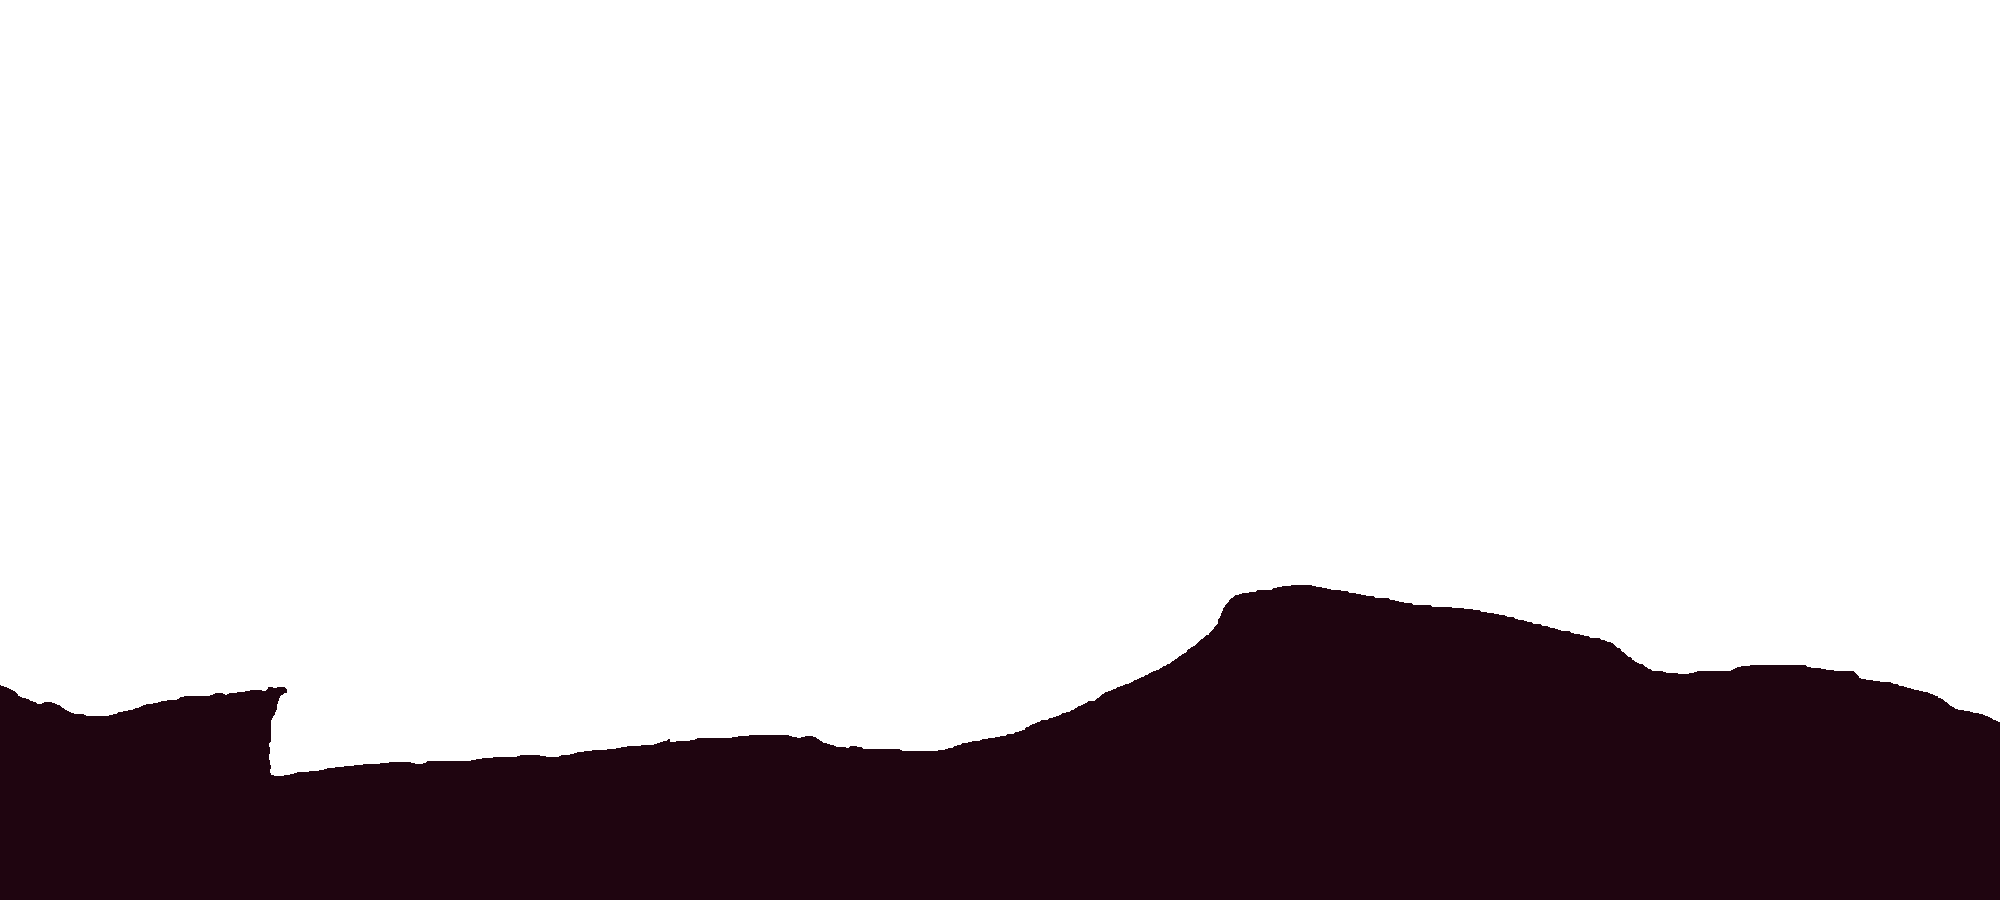
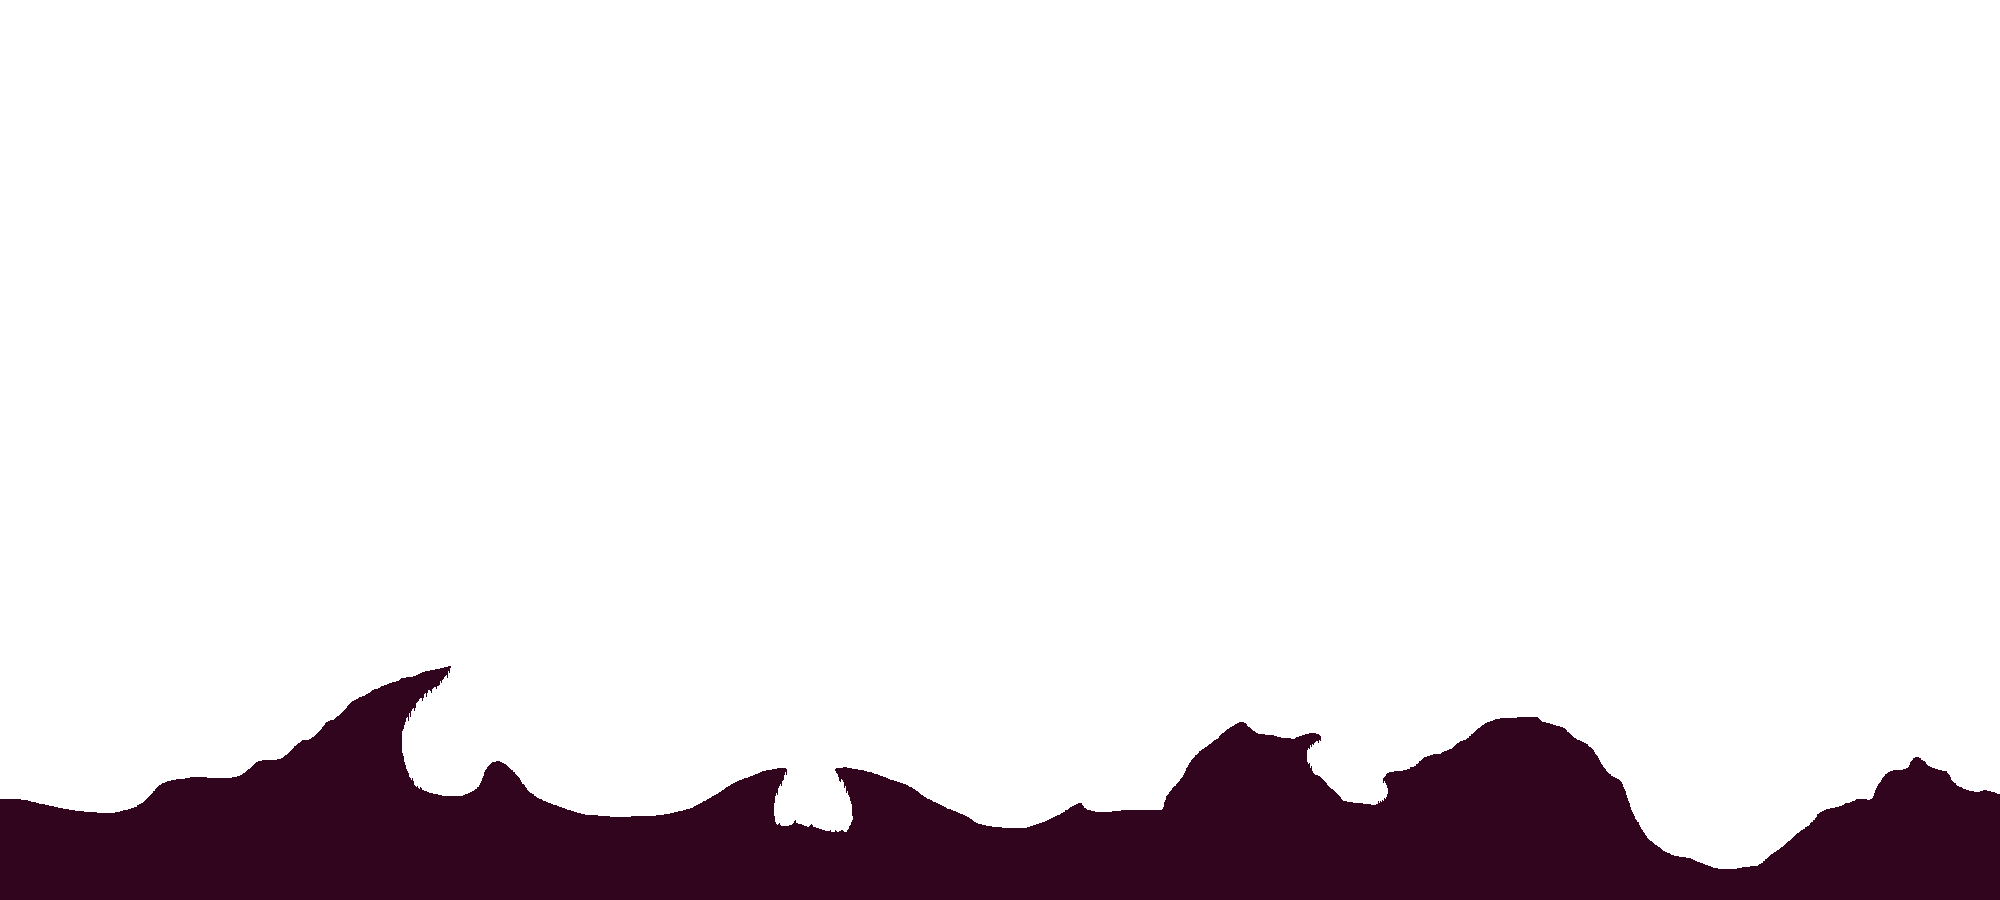
Ajout de parallax, reste à clusteriser tout ce petit monde

Changed region(s): [[0.0, 0.6533, 1.0, 0.9644]]

diff --git a/src/game_objects/world.py b/src/game_objects/world.py
@@ -1,11 +1,13 @@
 import pygame
 from json import load as json_load
+from math import ceil, floor
 
 from src.engine.library import is_surface_empty
+from src.engine.data import SCREEN_SIZE
 
 
 class World:
-    def __init__(self, level_folder_name="isles"):
+    def __init__(self, level_folder_name):
         file = open(f"../assets/world/{level_folder_name}/world_data.json", "r")
         level_dictionary = json_load(file)
         file.close()
@@ -13,17 +15,16 @@ class World:
         self.level_name = level_dictionary["level_name"]
         self.level_size = level_dictionary["level_size"]
         self.level_bg_color = level_dictionary["bg_color"]
+        self.cluster_size = level_dictionary["cluster_size"]
 
-        self.cluster_size = (50, 50)      # TODO ajouter une config pour regler ça
         self.level_ground_surfaces = {}
-        self.level_ground_rects = {}
-        self.level_ground_masks = {}
+        self.level_background_surfaces = []
         self.level_rect = pygame.Rect(0, 0, self.level_size[0], self.level_size[1])
 
-        # self.load_surfaces_rects_masks_old(level_dictionary, level_folder_name)
-        self.load_surfaces_rects_masks(level_folder_name)
+        self.load_ground(level_folder_name)
+        self.load_background(level_folder_name, level_dictionary)
 
-    def load_surfaces_rects_masks(self, level_folder_name):
+    def load_ground(self, level_folder_name):
         ground_surf = pygame.image.load(f"../assets/world/{level_folder_name}/ground.png").convert()
         ground_width, ground_height = ground_surf.get_size()
         width_cluster_number = ground_width // self.cluster_size[0]
@@ -31,6 +32,8 @@ class World:
         remainings = ground_width % self.cluster_size[0] + ground_height % self.cluster_size[1]
         if remainings:
             raise Exception("Level size and cluster size do not match")
+
+        self.level_ground_surfaces["size"] = ground_surf.get_size()
 
         for i in range(width_cluster_number):
             for j in range(height_cluster_number):
@@ -44,76 +47,85 @@ class World:
                 sub_surf = ground_surf.subsurface(sub_rect)
                 if not is_surface_empty(sub_surf):
                     sub_mask = pygame.mask.from_surface(sub_surf)
-                    self.level_ground_rects[cluster_coords] = sub_rect
-                    self.level_ground_surfaces[cluster_coords] = sub_surf
-                    self.level_ground_masks[cluster_coords] = sub_mask
+                    self.level_ground_surfaces[cluster_coords] = {}
+                    self.level_ground_surfaces[cluster_coords]["rect"] = sub_rect
+                    self.level_ground_surfaces[cluster_coords]["surf"] = sub_surf
+                    self.level_ground_surfaces[cluster_coords]["mask"] = sub_mask
 
-    def old_blit_ground_to_surface(self, surface, camera_rect):
-        zoom_x = camera_rect.width / surface.get_rect().width
-        zoom_y = camera_rect.height / surface.get_rect().height
+    def load_background(self, level_folder_name, level_dictionary):
+        bg_surfaces_names = level_dictionary["background"]
 
-        for tuple_rect in self.level_ground_rects:
-            if camera_rect.colliderect(self.level_ground_rects[tuple_rect]):
-                # isolate surface
-                clipping_rect = camera_rect.clip(self.level_ground_rects[tuple_rect])
-                sub_surf_rect = clipping_rect.move(-tuple_rect[0], -tuple_rect[1])
-                sub_surf = self.level_ground_surfaces[tuple_rect].subsurface(sub_surf_rect)
+        for surf_name in bg_surfaces_names:
+            bg_dict = {}
+            bg_surf = pygame.image.load(f"../assets/world/{level_folder_name}/{surf_name}").convert()
+            bg_dict["size"] = bg_surf.get_size()
+            marge_x = bg_dict["size"][0] - SCREEN_SIZE[0]
+            marge_y = bg_dict["size"][1] - SCREEN_SIZE[1]
+            max_travel_x = self.level_ground_surfaces["size"][0] - SCREEN_SIZE[0]
+            max_travel_y = self.level_ground_surfaces["size"][1] - SCREEN_SIZE[1]
+            d_max_x = self.level_ground_surfaces["size"][0] - bg_dict["size"][0]
+            d_max_y = self.level_ground_surfaces["size"][1] - bg_dict["size"][1]
+            x_mult = marge_x / max_travel_x
+            y_mult = marge_y / max_travel_y
+            print(x_mult, y_mult)
+            bg_dict["x_mult"] = x_mult
+            bg_dict["y_mult"] = y_mult
+            bg_dict["surf"] = bg_surf
 
-                # surface mapping
-                screen_rect = clipping_rect.move(-camera_rect[0], -camera_rect[1])
-                new_x = round(screen_rect.left / zoom_x)
-                new_y = round(screen_rect.top / zoom_y)
-                new_width = round(screen_rect.width / zoom_x)
-                new_height = round(screen_rect.height / zoom_y)
-                screen_rect = pygame.Rect(new_x, new_y, new_width, new_height)
-                # pygame.draw.rect(surface, (255, 0, 0), screen_rect)
-                surface.blit(pygame.transform.scale(sub_surf, screen_rect.size), screen_rect)
+            self.level_background_surfaces.append(bg_dict)
 
     def blit_ground_to_surface(self, surface, camera_rect):
         visible_clusters = self.clusters_in_rect(camera_rect)
         for cluster in visible_clusters:
-            pos = (self.level_ground_rects[cluster].topleft[0] - camera_rect[0],
-                   self.level_ground_rects[cluster].topleft[1] - camera_rect[1])
+            if cluster in self.level_ground_surfaces:
+                pos = (self.level_ground_surfaces[cluster]["rect"].topleft[0] - camera_rect[0],
+                       self.level_ground_surfaces[cluster]["rect"].topleft[1] - camera_rect[1])
+                surface.blit(self.level_ground_surfaces[cluster]["surf"], pos)
 
-            surface.blit(self.level_ground_surfaces[cluster], pos)
+    def blit_background_to_surface(self, surface, camera_rect):
+        for layer in range(len(self.level_background_surfaces)):
+            pos = [camera_rect[0] * -self.level_background_surfaces[layer]["x_mult"],
+                   camera_rect[1] * -self.level_background_surfaces[layer]["y_mult"]]
+
+            surface.blit(self.level_background_surfaces[layer]["surf"], pos)
 
     def dig_ground(self, pos, radius):
         rect = pygame.Rect(pos[0]-radius, pos[1]-radius, 2*radius, 2*radius)
 
-        for tuple_rect in self.level_ground_rects:
-            if self.level_ground_rects[tuple_rect].colliderect(rect):
-                ground_rect = self.level_ground_rects[tuple_rect]
+        for cluster in self.clusters_in_rect(rect):
+            if cluster in self.level_ground_surfaces:
+                ground_rect = self.level_ground_surfaces[cluster]["rect"]
                 new_center = pos[0] - ground_rect.left, pos[1] - ground_rect.top
-                pygame.draw.circle(self.level_ground_surfaces[tuple_rect], (0, 0, 0), new_center, radius)
-                self.level_ground_masks[tuple_rect] = pygame.mask.from_surface(self.level_ground_surfaces[tuple_rect])
+                pygame.draw.circle(self.level_ground_surfaces[cluster]["surf"], (0, 0, 0), new_center, radius)
+                self.level_ground_surfaces[cluster]["mask"] = pygame.mask.from_surface(self.level_ground_surfaces[cluster]["surf"])
 
     def rect_in_level(self, rect):
         return self.level_rect.colliderect(rect)
 
-    def clusters_in_rect(self, rect):
+    def clusters_in_rect(self, rect, layer_coefs=(1, 1)):
         clusters = []
+
         left_indice = rect.left // self.cluster_size[0]
         right_indice = rect.right // self.cluster_size[0]
         top_indice = rect.top // self.cluster_size[1]
         bottom_indice = rect.bottom // self.cluster_size[1]
+
         for i in range(left_indice, right_indice+1):
             for j in range(top_indice, bottom_indice+1):
-                if (i, j) in self.level_ground_rects:       # Si le cluster existe
-                    clusters.append((i, j))
+                clusters.append((i, j))
         return clusters
 
     def collide_ground_point_mask(self, point):
         point_cluster_coords = point[0]//self.cluster_size[0], point[1]//self.cluster_size[1]
         local_point_coords = point[0] % self.cluster_size[0], point[1] % self.cluster_size[1]
-        if point_cluster_coords in self.level_ground_masks:
-            if self.level_ground_masks[point_cluster_coords].get_at(local_point_coords):
+        if point_cluster_coords in self.level_ground_surfaces:
+            if self.level_ground_surfaces[point_cluster_coords]["mask"].get_at(local_point_coords):
                 return True
         return False
 
     def collide_ground_rect_rect(self, rect):
-        print("TESTESTETS")
-        for tuple_rect in self.level_ground_rects:
-            if self.level_ground_rects[tuple_rect].colliderect(rect):
+        for tuple_rect in self.level_ground_surfaces:
+            if self.level_ground_surfaces[tuple_rect]["rect"].colliderect(rect):
                 return True
         return False
 
@@ -124,10 +136,10 @@ class World:
         intersecting_clusters = self.clusters_in_rect(mask_rect)
 
         for cluster in intersecting_clusters:
-            if cluster in self.level_ground_masks:
+            if cluster in self.level_ground_surfaces:
                 mask_relative_offset = (offset[0] - cluster[0] * self.cluster_size[0],
                                         offset[1] - cluster[1] * self.cluster_size[1])
-                if pos := self.level_ground_masks[cluster].overlap(mask, mask_relative_offset):
+                if pos := self.level_ground_surfaces[cluster]["mask"].overlap(mask, mask_relative_offset):
                     impact_pos = (pos[0] + cluster[0] * self.cluster_size[0],
                                   pos[1] + cluster[1] * self.cluster_size[1])
                     return impact_pos

diff --git a/src/game_objects/player.py b/src/game_objects/player.py
@@ -107,6 +107,8 @@ class Player:
 
     # region player update
     def update_position_and_angle(self, delta):
+        if delta > 0.1:
+            return False
         self.mg.reset(delta)
 
         if self.free_fall:
@@ -138,6 +140,7 @@ class Player:
         self.vy *= self.friction**delta
         self.x += self.vx*delta
         self.y += self.vy*delta
+        return True
 
     def update_surface_and_hitbox(self):
         self.opp.set_angle(360-self.a, False)

diff --git a/src/game_objects/handlers/player_handler.py b/src/game_objects/handlers/player_handler.py
@@ -29,9 +29,9 @@ class PlayerHandler:
 
     def add_player(self):
         player_number = len(self.players) + 1
-        self.number_of_players = player_number
-        player_x = 300 + len(self.players)
-        player_y = 225
+        self.number_of_players += 1
+        player_x = 50
+        player_y = 50
         player = Player(player_number, player_x, player_y, "fat_player", self.projectile_handler)
 
         self.players.append(player)

diff --git a/src/game_objects/handlers/game_handler.py b/src/game_objects/handlers/game_handler.py
@@ -70,6 +70,7 @@ class GameHandler:
 
         self.window.fill(self.world.level_bg_color)
 
+        self.world.blit_background_to_surface(self.window, screen_rect)
         self.world.blit_ground_to_surface(self.window, screen_rect)
 
         for projectile in self.projectile_handler.projectile_list:
